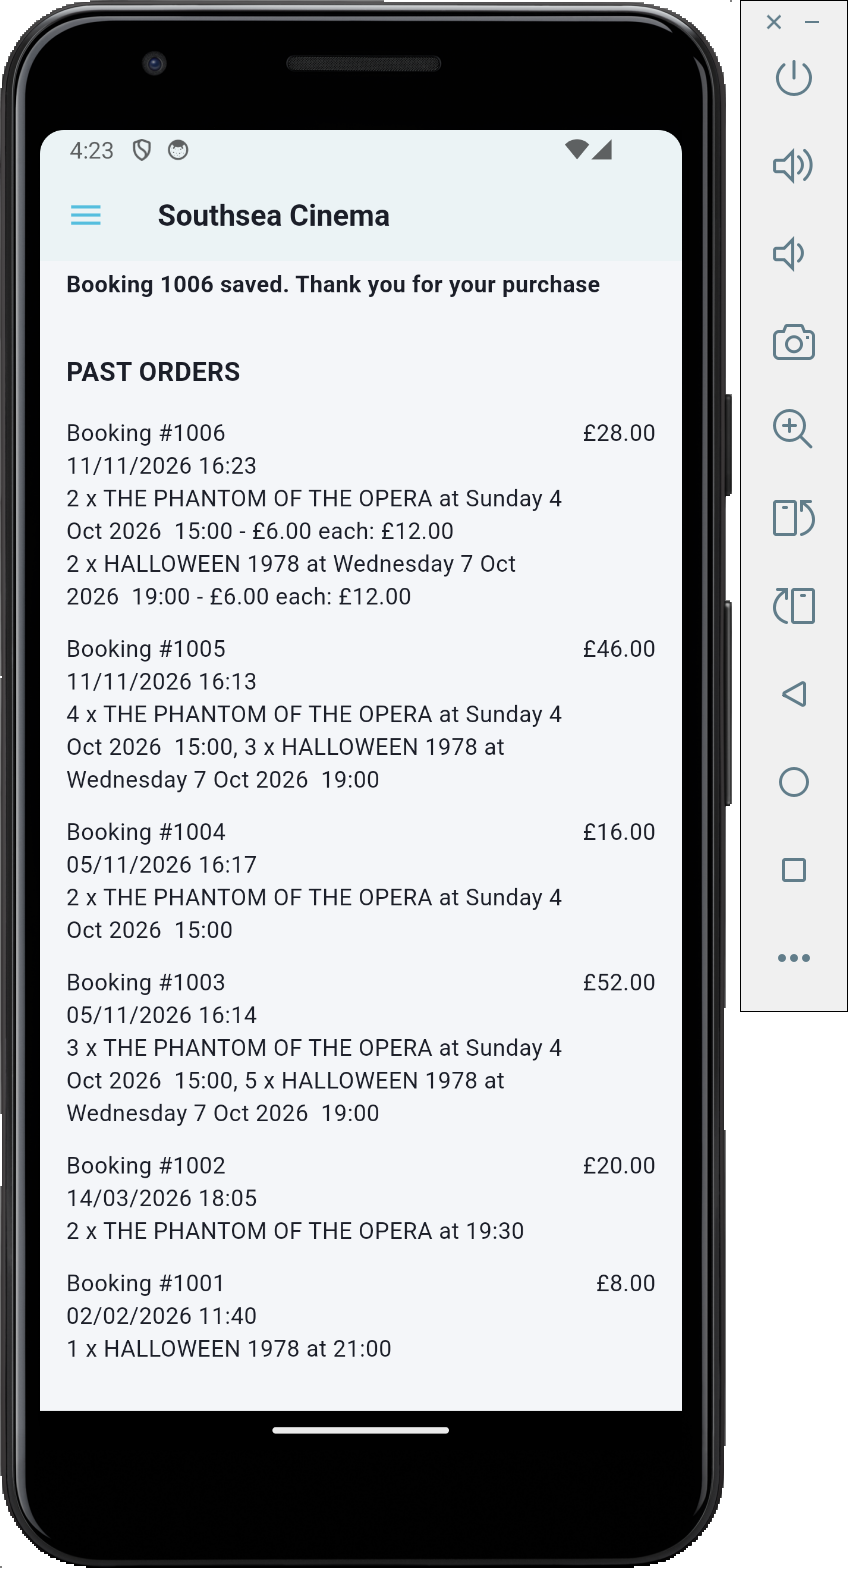
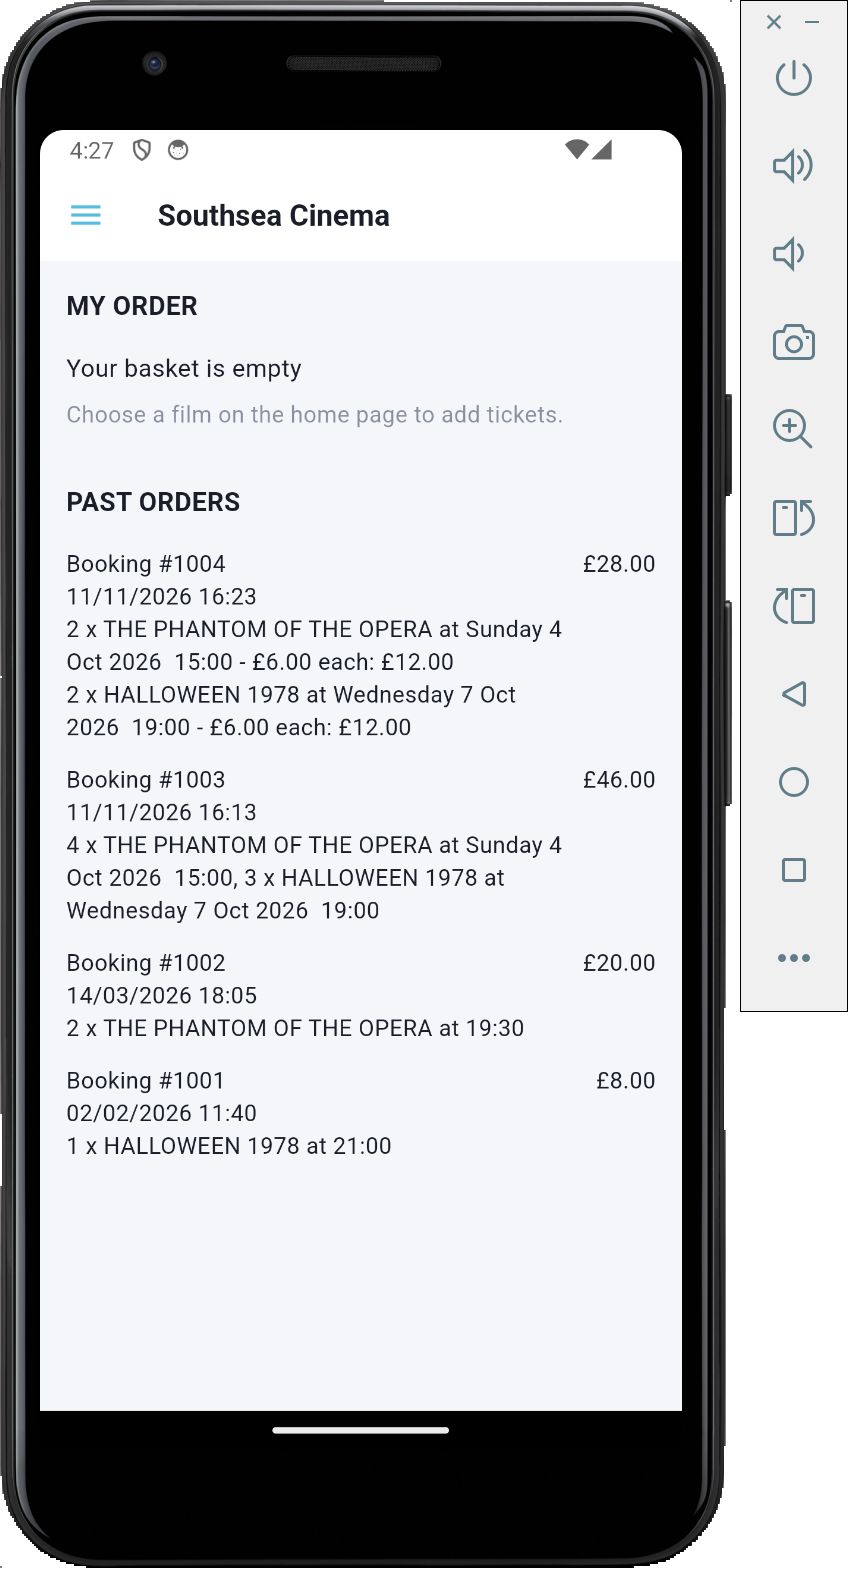
docs(worksheet-8): update the booking items screenshot and text

diff --git a/worksheet-8.md b/worksheet-8.md
@@ -528,6 +528,7 @@ Build on the cinema app from Worksheet 7. For each change, be ready to explain t
 2. Practise debugging your Southsea Cinema app, following [Debugging](#debugging). Step through a user action, such as booking a ticket or updating settings, and use the Flutter Widget Inspector to examine the widget tree and layout. At Demo 4, the marker may push a defect to your repository, such as a layout overflow, a wrong calculation or a value read incorrectly from the database, JSON or preferences, and ask you to find and fix it live.
 3. Update your cinema `README.md` with Copilot, following [Updating the README](#updating-the-readme). Model it on the README of our Sandwich Shop, which has features, the supported platform, prerequisites, clone, install, run and test instructions, the project structure and screenshots with alt text. Keep it up to date as you complete each exercise.
 4. (Advanced) Following [Order items table](#order-items-table), store the items of each booking as related rows instead of only in its summary. Migrate existing bookings without losing them, and make sure a failed item insert leaves nothing half-saved. Your past bookings should list the items of each booking, as shown below.
-    ![Past bookings on the basket page, where booking 1006 lists each film with its quantity and price and the older bookings show one summary line](images/8/cinema_booking_items.png)
-    In our model solution, booking 1006 was saved after the change, so it lists each film with its quantity, price and line total. The total of £28.00 includes the £4.00 service charge. Bookings 1001 to 1005 were saved before the change, so they have no item rows and keep their one-line summary. This shows that the migration kept them.
+
+    ![The basket page with an empty basket and four past bookings, where booking 1004 lists each film with its quantity and price and the older bookings show one summary line](images/8/cinema_booking_items.png)
+    In our model solution, booking 1004 was saved after the change, so it lists each film with its quantity, price and line total. Its total of £28.00 includes the £4.00 service charge. Bookings 1001 to 1003 have no item rows, so they keep their one-line summary. Bookings 1001 and 1002 are the sample bookings, and booking 1003 was saved before the upgrade, which shows that the migration kept it.
 5. (Advanced) Measure and raise the test coverage of your cinema app, following [Test coverage](#test-coverage). Record your starting and final percentages, and make sure you can trust the final one. At Demo 4, the marker will change the logic or user interface of your app, such as a calculation, a database query or a message, and ask you to run your tests to show that at least one of them fails.
